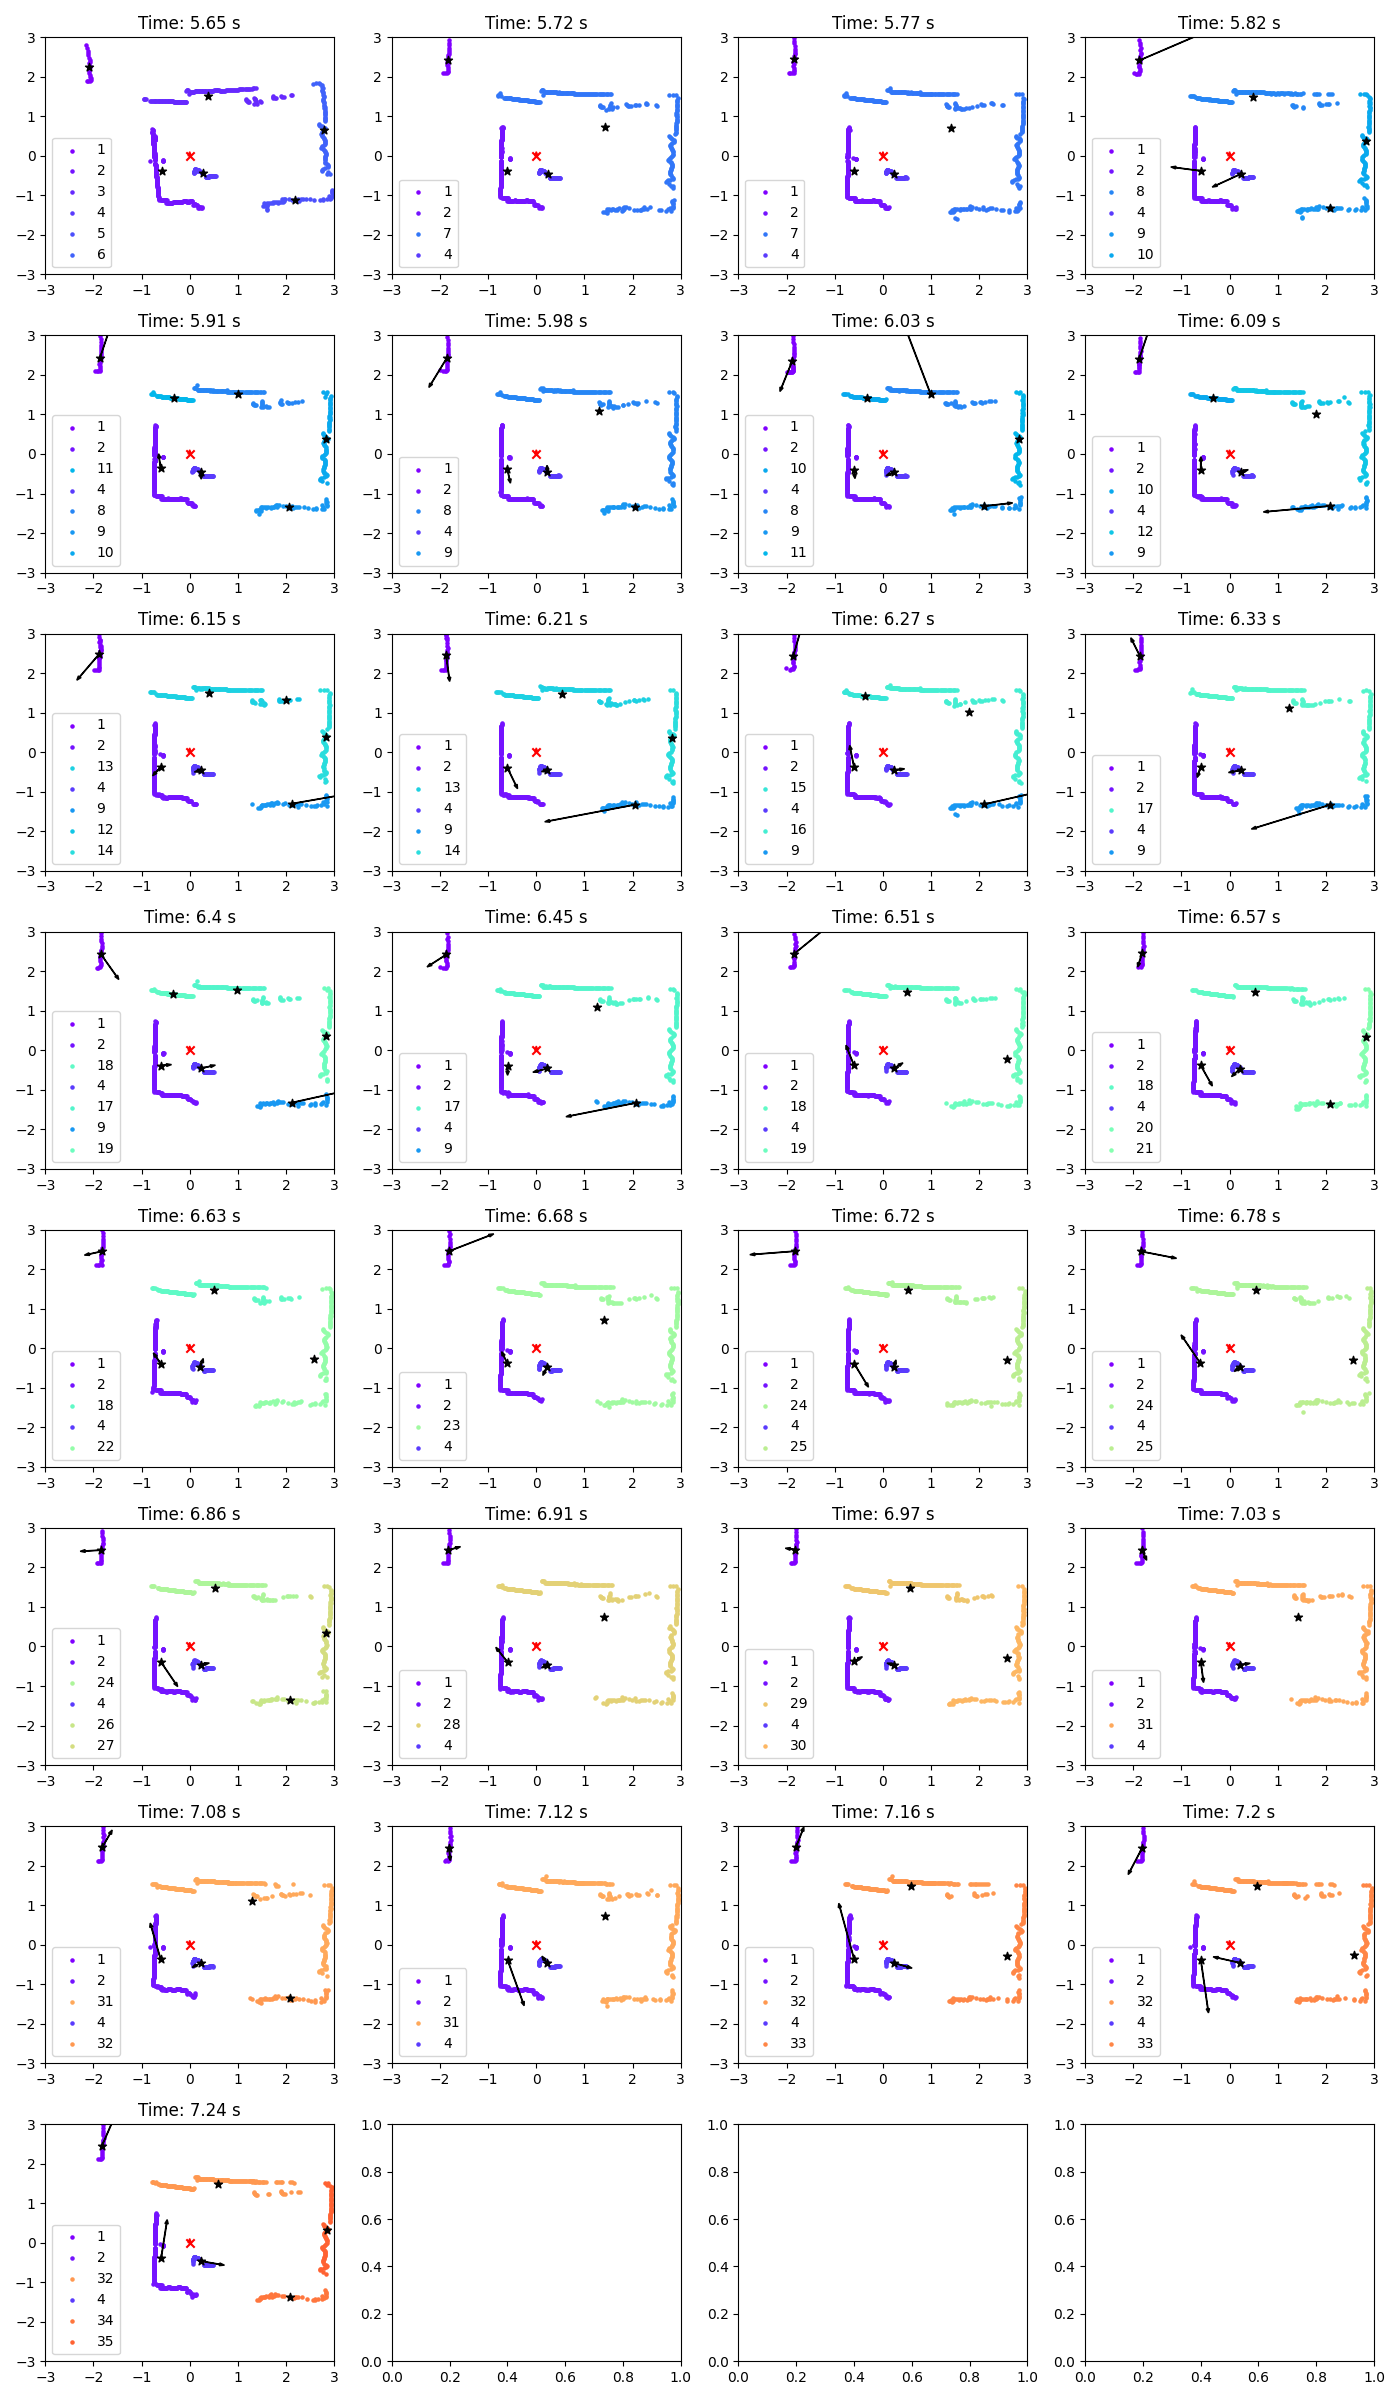
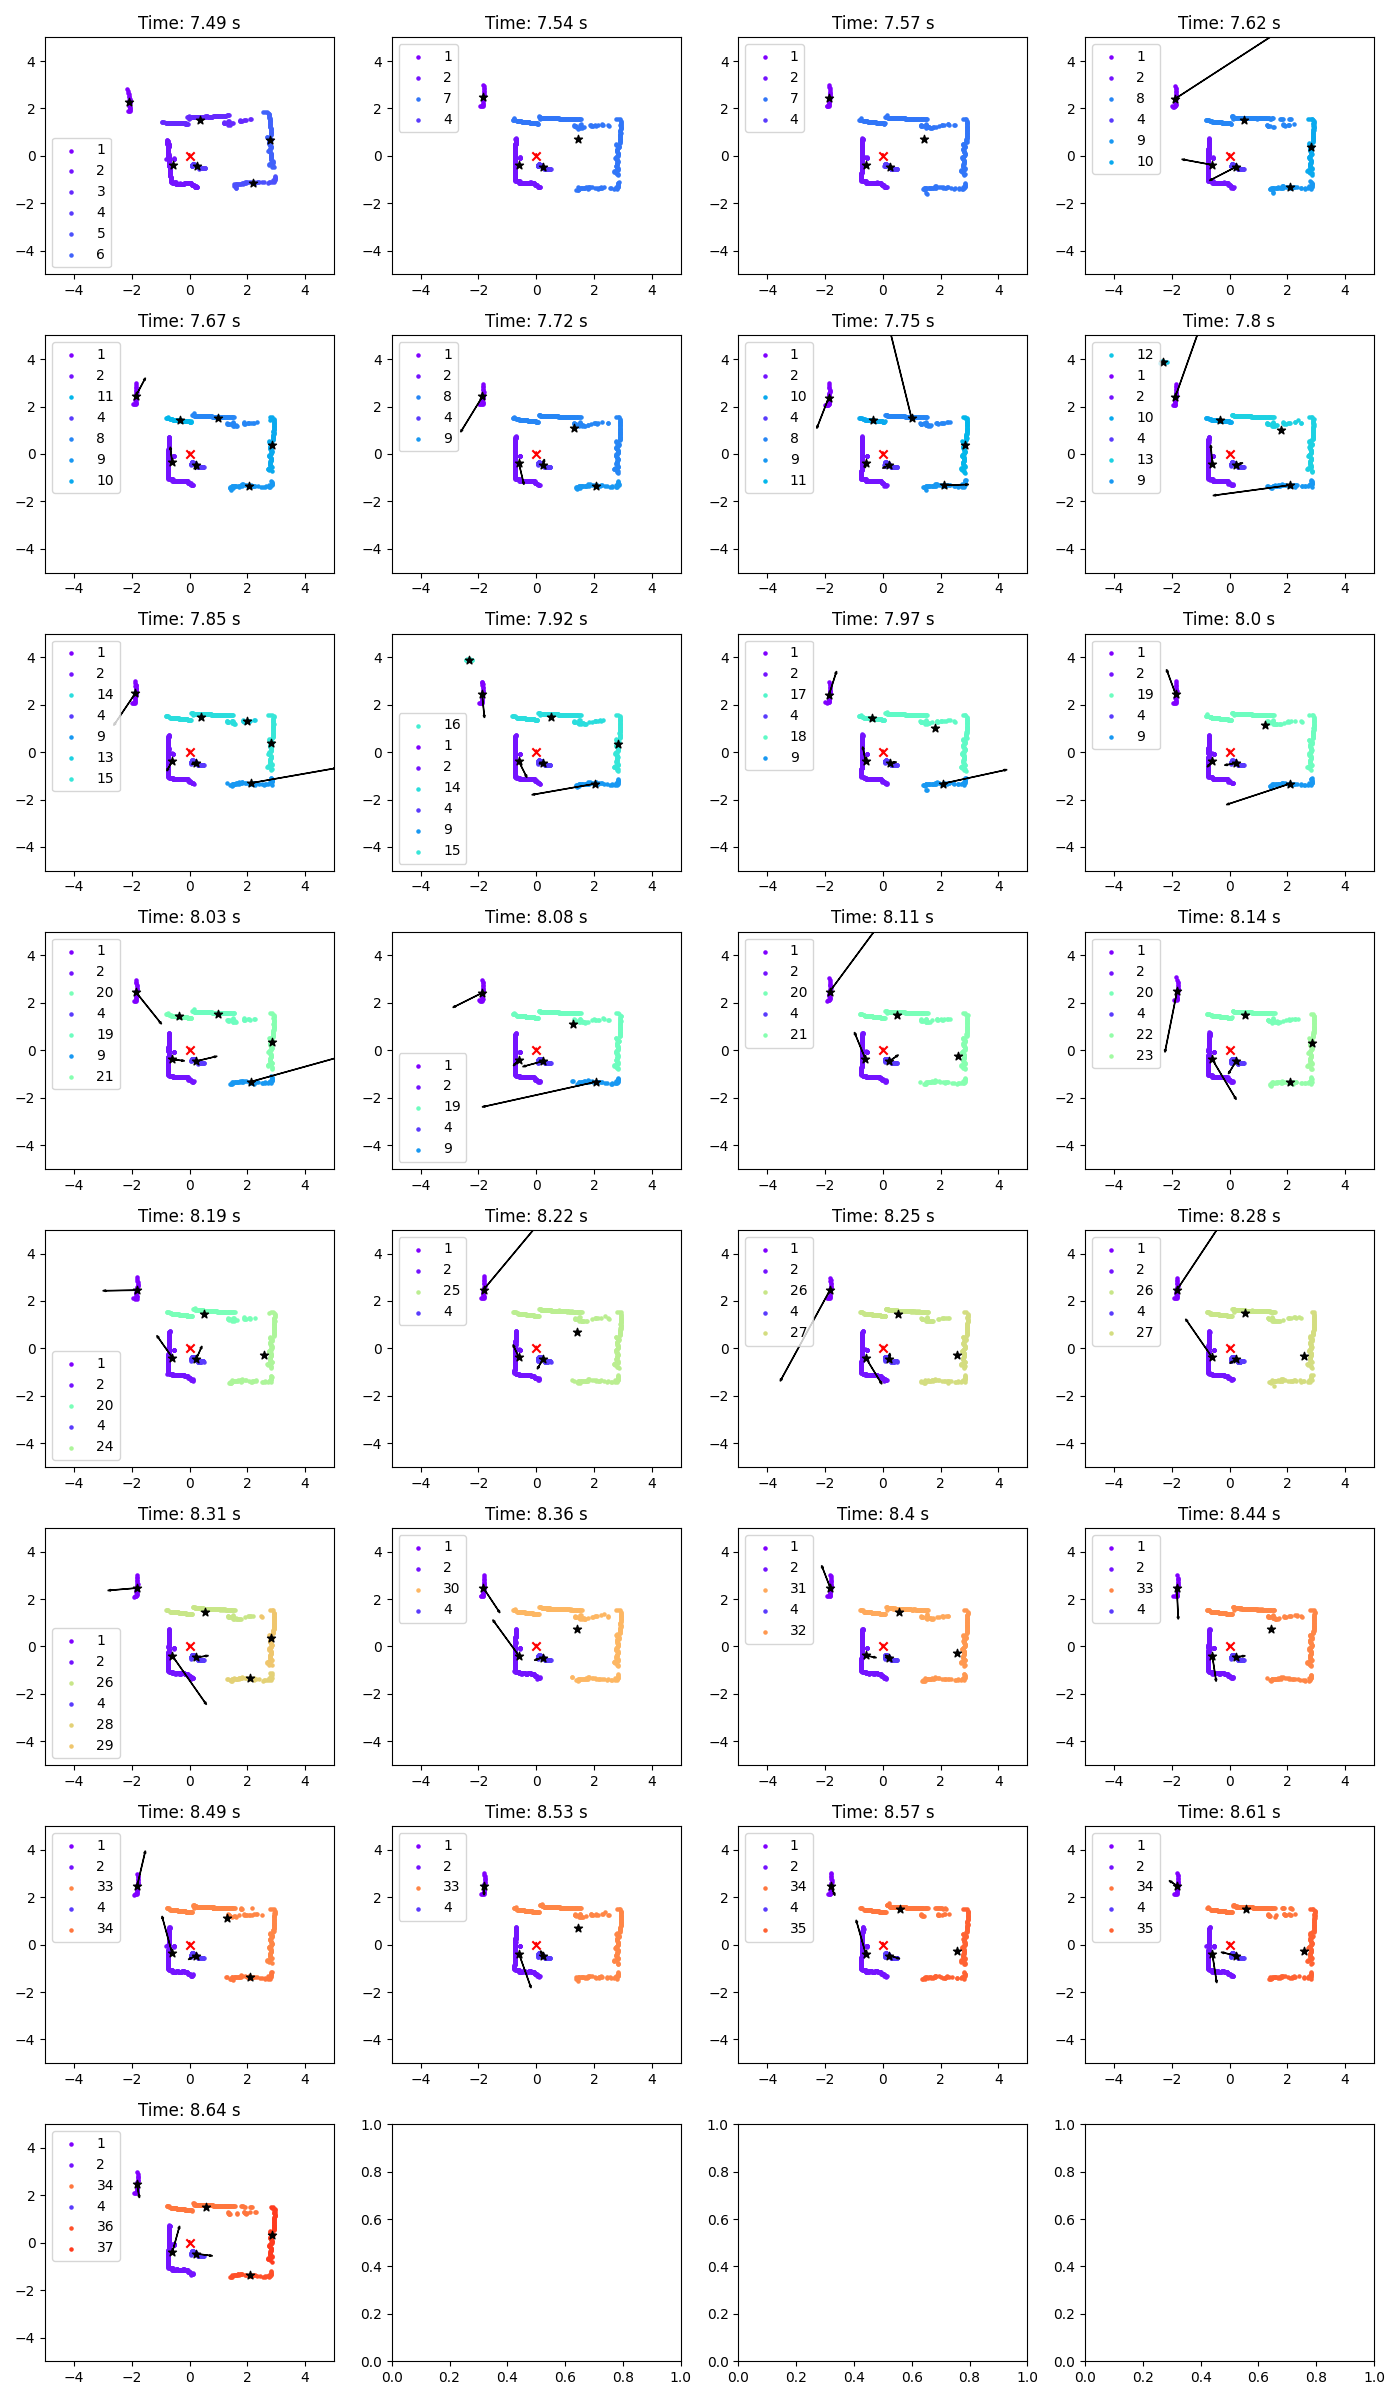
real-time visualization

diff --git a/main.py b/main.py
@@ -1,4 +1,5 @@
 DEBUG = False
+DISPLAY = True
 
 import math
 import time
@@ -8,6 +9,12 @@ import numpy as np
 from enum import Enum, IntEnum
 import pyttsx3
 import subprocess
+
+DISPLAY = DISPLAY and (not DEBUG)
+
+if DISPLAY:
+    plt.ion()
+    plt.figure(figsize=(10,6))
 
 tts_engine = pyttsx3.init()
 tts_engine.setProperty('rate', 250)
@@ -208,7 +215,15 @@ def algorithm(frame):
             axis[frame_count // 4, frame_count % 4].scatter(current_frame[i][1], current_frame[i][2], color='black', marker='*')
         axis[frame_count // 4, frame_count % 4].scatter(0, 0, color='red', marker='x')
         axis[frame_count // 4, frame_count % 4].arrow(0, 0, RAW_VEL[frame_count][0], RAW_VEL[frame_count][1], color='red', width=0.01, head_width=0.07)
-    
+    elif DISPLAY:
+        color_options = cm.rainbow(np.linspace(0, 1, len(current_frame) - 2))
+        plt.scatter(current_frame[1][3], current_frame[1][4], color='white')
+        for i in range(2, len(current_frame)):
+            plt.scatter(current_frame[i][3], current_frame[i][4], color=color_options[current_frame[i][0] - 1], s=5, label=current_frame[i][0])
+            plt.scatter(current_frame[i][1], current_frame[i][2], color='black', marker='*')
+        plt.scatter(0, 0, color='red', marker='x')
+        plt.arrow(0, 0, vel_y, vel_x, color='red', width=0.01, head_width=0.07)
+
     if len(prev_frame) == 3:
         current_vel = []
         for i in current_frame[2:]:
@@ -224,7 +239,11 @@ def algorithm(frame):
                     v_y += RAW_VEL[frame_count][1]
                     axis[frame_count // 4, frame_count % 4].arrow(points_x[3][1], points_y[3][1], v_x, v_y, color='black', width=0.01, head_width=0.07)
                 else:
-                    pass
+                    v_x += vel_y
+                    v_y += vel_x
+                    if DISPLAY:
+                        plt.arrow(points_x[3][1], points_y[3][1], v_x, v_y, color='black', width=0.01, head_width=0.07)
+                
                 current_vel.append((i[0], v_x, v_y))
                 if len(prev_vel) == 3:
                     if i[0] in [j[0] for j in prev_vel[0]] and i[0] in [j[0] for j in prev_vel[1]] and i[0] in [j[0] for j in prev_vel[2]]:
@@ -239,18 +258,15 @@ def algorithm(frame):
                             if clock_time == 0:
                                 clock_time = 12
                             raw_speed = round((v_x ** 2 + v_y ** 2) ** 0.5, 2)
-                            vel_speed = round((vel_x ** 2 + vel_y ** 2) ** 0.5, 2)
-                            if v_x * vel_y + v_y * vel_x < -0.5 * raw_speed * vel_speed:
-                                continue
-                            output_speed = round((v_x ** 2 + v_y ** 2) ** 0.5, 2)
+                            speed_translate = round((v_x ** 2 + v_y ** 2) ** 0.5, 2)
                             output_direction = round((math.degrees(math.atan2(v_y, v_x)) + 360) % 360)
                             for key in SPEED_KEYS:
-                                if output_speed >= key:
-                                    output_speed = key
+                                if raw_speed >= key:
+                                    speed_translate = key
                                     break
-                            if output_speed > 0:
-                                print(f'Time {round(current_frame[0], 2)} s - object {i[0]} @ {clock_time}:00, {SPEEDS[output_speed]} ({raw_speed} m/s) @ {output_direction}°')
-                                tts_engine.say(f'{clock_time} o\'clock, {SPEEDS[output_speed]} at {output_direction} degrees')
+                            if speed_translate > 0:
+                                print(f'Time {round(current_frame[0], 2)} s - object {i[0]} @ {clock_time}:00, {SPEEDS[speed_translate]} ({raw_speed} m/s) @ {output_direction}°')
+                                tts_engine.say(f'{clock_time} o\'clock, {SPEEDS[speed_translate]} at {output_direction} degrees')
                                 tts_engine.runAndWait()
         prev_vel = [current_vel] + prev_vel[:2]
 
@@ -259,6 +275,11 @@ def algorithm(frame):
         axis[frame_count // 4, frame_count % 4].set_ylim(-MAX_RANGE, MAX_RANGE)
         axis[frame_count // 4, frame_count % 4].set_title(f'Time: {round(current_frame[0], 2)} s')
         axis[frame_count // 4, frame_count % 4].legend()
+    elif DISPLAY:
+        plt.set_xlim(-MAX_RANGE, MAX_RANGE)
+        plt.set_ylim(-MAX_RANGE, MAX_RANGE)
+        plt.show()
+        plt.pause(0.01)
 
     prev_frame = [[current_frame[0]] + [i[:3] for i in current_frame[1:]]] + prev_frame[:2]
     frame_count += 1
